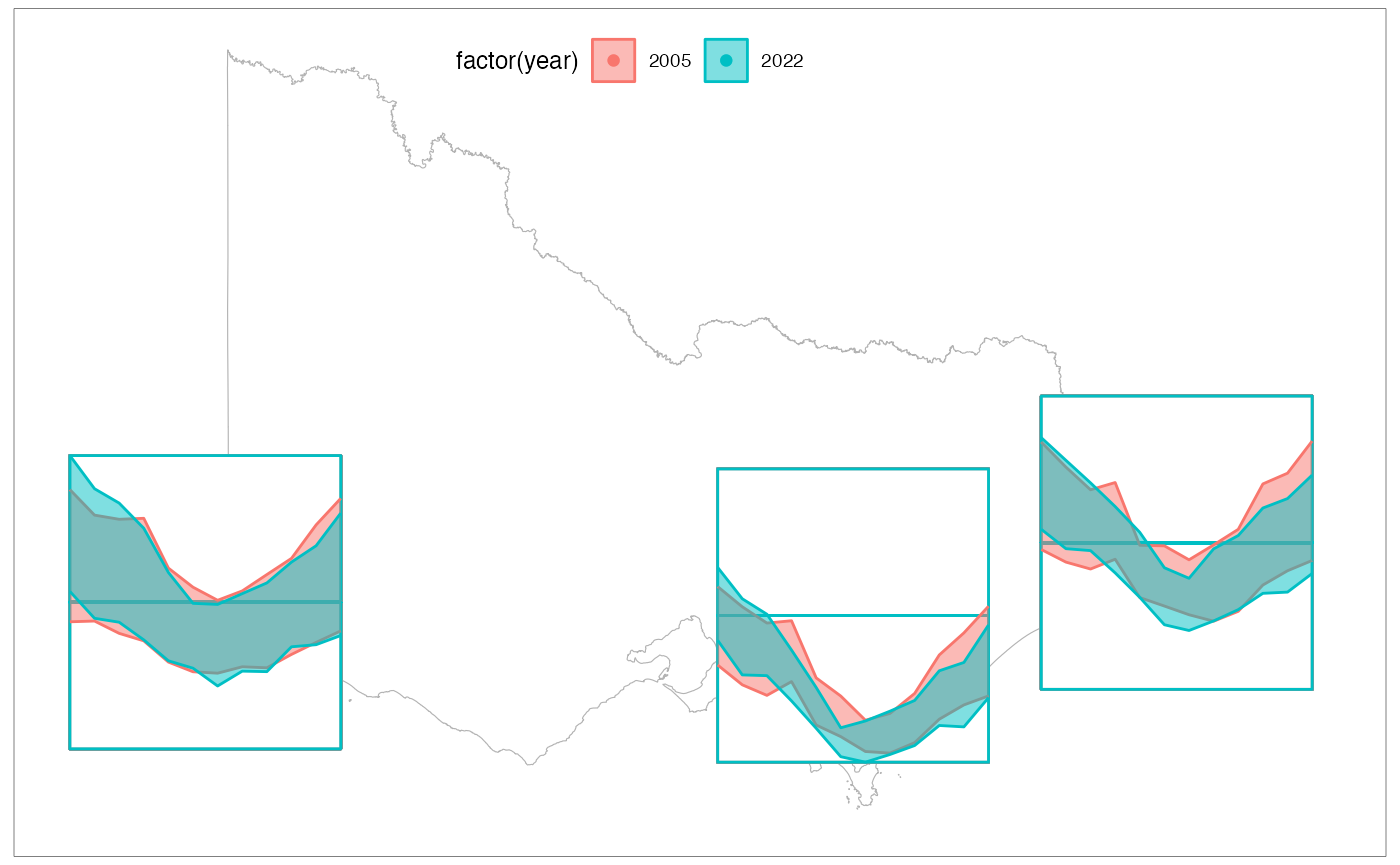
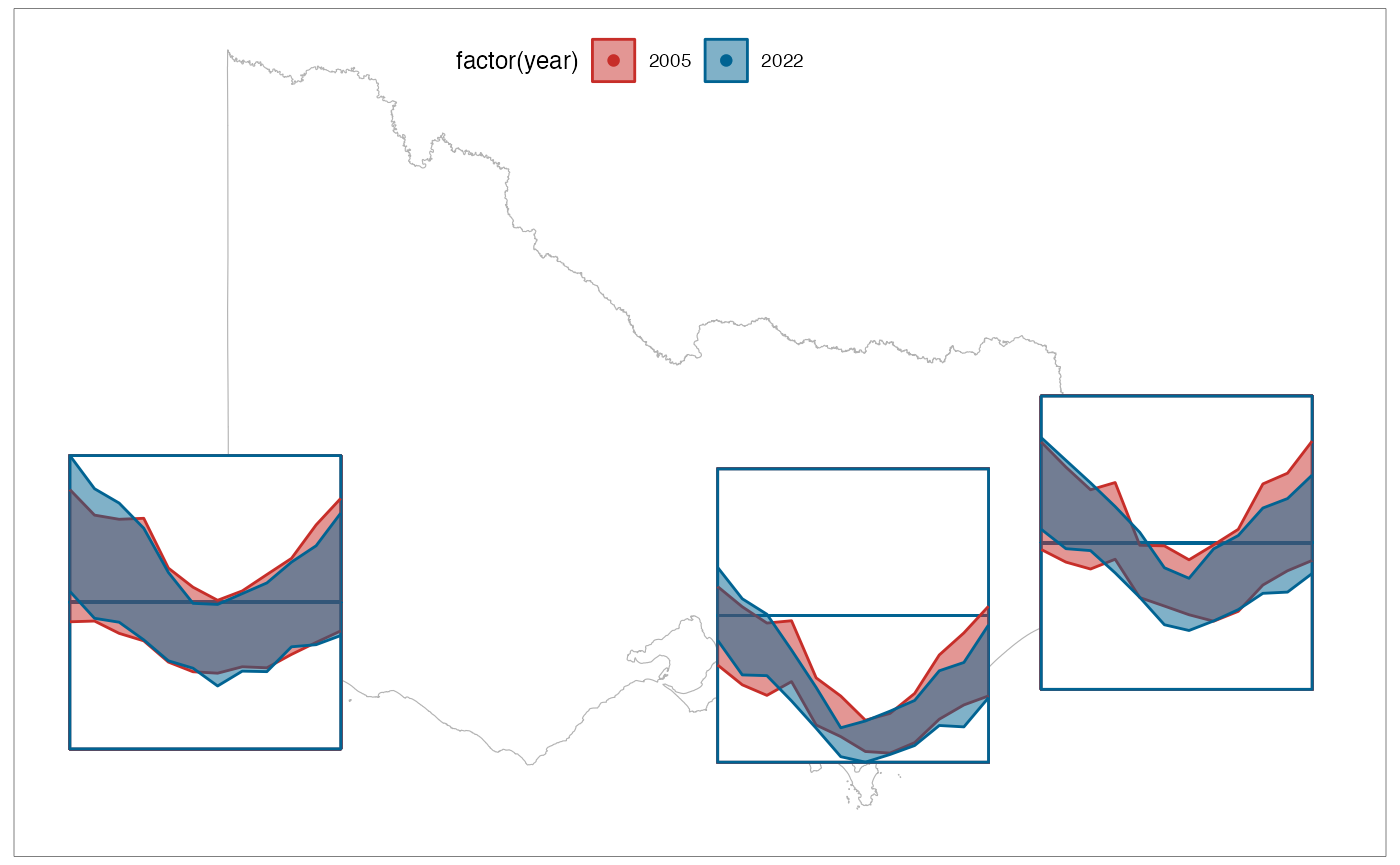
Update examples' theme

diff --git a/docs/articles/Examples.html b/docs/articles/Examples.html
@@ -200,8 +200,6 @@ unique options.</p>
 <p>(……)</p>
 <div class="sourceCode" id="cb2"><pre class="downlit sourceCode r">
 <code class="sourceCode R"><span></span>
-<span><span class="va">aus_map</span> <span class="op">&lt;-</span> <span class="fu"><a href="https://ggplot2.tidyverse.org/reference/map_data.html" class="external-link">map_data</a></span><span class="op">(</span><span class="st">"world"</span>, region <span class="op">=</span> <span class="st">"Australia"</span><span class="op">)</span></span>
-<span></span>
 <span><span class="va">p1</span> <span class="op">&lt;-</span> <span class="va">aus_temp</span> <span class="op">|&gt;</span></span>
 <span>   <span class="fu"><a href="https://ggplot2.tidyverse.org/reference/ggplot.html" class="external-link">ggplot</a></span><span class="op">(</span><span class="fu"><a href="https://ggplot2.tidyverse.org/reference/aes.html" class="external-link">aes</a></span><span class="op">(</span>x_major <span class="op">=</span> <span class="va">long</span>, y_major <span class="op">=</span> <span class="va">lat</span>,</span>
 <span>              x_minor <span class="op">=</span> <span class="va">month</span>, ymin_minor <span class="op">=</span> <span class="va">tmin</span>, ymax_minor <span class="op">=</span> <span class="va">tmax</span><span class="op">)</span><span class="op">)</span> <span class="op">+</span></span>
@@ -213,7 +211,9 @@ unique options.</p>
 <span>  <span class="fu">theme_map</span><span class="op">(</span><span class="op">)</span> <span class="op">+</span></span>
 <span>  <span class="fu"><a href="https://ggplot2.tidyverse.org/reference/ggsf.html" class="external-link">coord_sf</a></span><span class="op">(</span>xlim <span class="op">=</span> <span class="fu"><a href="https://rdrr.io/r/base/c.html" class="external-link">c</a></span><span class="op">(</span><span class="fl">110</span>,<span class="fl">155</span><span class="op">)</span><span class="op">)</span> <span class="op">+</span></span>
 <span>  <span class="fu"><a href="https://ggplot2.tidyverse.org/reference/labs.html" class="external-link">labs</a></span><span class="op">(</span>title <span class="op">=</span> <span class="st">"Local Rescale"</span><span class="op">)</span> <span class="op">+</span></span>
-<span>  <span class="fu"><a href="https://ggplot2.tidyverse.org/reference/theme.html" class="external-link">theme</a></span><span class="op">(</span>plot.title <span class="op">=</span> <span class="fu"><a href="https://ggplot2.tidyverse.org/reference/element.html" class="external-link">element_text</a></span><span class="op">(</span>hjust <span class="op">=</span> <span class="fl">0.5</span><span class="op">)</span><span class="op">)</span></span>
+<span>  <span class="fu"><a href="https://ggplot2.tidyverse.org/reference/theme.html" class="external-link">theme</a></span><span class="op">(</span>plot.title <span class="op">=</span> <span class="fu"><a href="https://ggplot2.tidyverse.org/reference/element.html" class="external-link">element_text</a></span><span class="op">(</span>hjust <span class="op">=</span> <span class="fl">0.5</span><span class="op">)</span>,</span>
+<span>        panel.background <span class="op">=</span> <span class="fu"><a href="https://ggplot2.tidyverse.org/reference/element.html" class="external-link">element_rect</a></span><span class="op">(</span>fill <span class="op">=</span> <span class="st">"white"</span>, color <span class="op">=</span> <span class="cn">NA</span><span class="op">)</span>,</span>
+<span>        plot.background <span class="op">=</span> <span class="fu"><a href="https://ggplot2.tidyverse.org/reference/element.html" class="external-link">element_rect</a></span><span class="op">(</span>fill <span class="op">=</span> <span class="st">"white"</span>, color <span class="op">=</span> <span class="cn">NA</span><span class="op">)</span><span class="op">)</span></span>
 <span></span>
 <span><span class="va">p2</span> <span class="op">&lt;-</span> <span class="va">aus_temp</span> <span class="op">|&gt;</span></span>
 <span>   <span class="fu"><a href="https://ggplot2.tidyverse.org/reference/ggplot.html" class="external-link">ggplot</a></span><span class="op">(</span><span class="fu"><a href="https://ggplot2.tidyverse.org/reference/aes.html" class="external-link">aes</a></span><span class="op">(</span>x_major <span class="op">=</span> <span class="va">long</span>, y_major <span class="op">=</span> <span class="va">lat</span>,</span>
@@ -226,7 +226,9 @@ unique options.</p>
 <span>  <span class="fu">theme_map</span><span class="op">(</span><span class="op">)</span> <span class="op">+</span></span>
 <span>  <span class="fu"><a href="https://ggplot2.tidyverse.org/reference/ggsf.html" class="external-link">coord_sf</a></span><span class="op">(</span>xlim <span class="op">=</span> <span class="fu"><a href="https://rdrr.io/r/base/c.html" class="external-link">c</a></span><span class="op">(</span><span class="fl">110</span>,<span class="fl">155</span><span class="op">)</span><span class="op">)</span> <span class="op">+</span></span>
 <span>  <span class="fu"><a href="https://ggplot2.tidyverse.org/reference/labs.html" class="external-link">labs</a></span><span class="op">(</span>title <span class="op">=</span> <span class="st">"Global Rescale"</span><span class="op">)</span> <span class="op">+</span></span>
-<span>  <span class="fu"><a href="https://ggplot2.tidyverse.org/reference/theme.html" class="external-link">theme</a></span><span class="op">(</span>plot.title <span class="op">=</span> <span class="fu"><a href="https://ggplot2.tidyverse.org/reference/element.html" class="external-link">element_text</a></span><span class="op">(</span>hjust <span class="op">=</span> <span class="fl">0.5</span><span class="op">)</span><span class="op">)</span></span>
+<span>  <span class="fu"><a href="https://ggplot2.tidyverse.org/reference/theme.html" class="external-link">theme</a></span><span class="op">(</span>plot.title <span class="op">=</span> <span class="fu"><a href="https://ggplot2.tidyverse.org/reference/element.html" class="external-link">element_text</a></span><span class="op">(</span>hjust <span class="op">=</span> <span class="fl">0.5</span><span class="op">)</span>,</span>
+<span>        panel.background <span class="op">=</span> <span class="fu"><a href="https://ggplot2.tidyverse.org/reference/element.html" class="external-link">element_rect</a></span><span class="op">(</span>fill <span class="op">=</span> <span class="st">"white"</span>, color <span class="op">=</span> <span class="cn">NA</span><span class="op">)</span>,</span>
+<span>        plot.background <span class="op">=</span> <span class="fu"><a href="https://ggplot2.tidyverse.org/reference/element.html" class="external-link">element_rect</a></span><span class="op">(</span>fill <span class="op">=</span> <span class="st">"white"</span>, color <span class="op">=</span> <span class="cn">NA</span><span class="op">)</span><span class="op">)</span></span>
 <span></span>
 <span><span class="co"># Using gridExtra and grid packages to add neatline to the plot</span></span>
 <span><span class="fu">grid.arrange</span><span class="op">(</span><span class="va">p1</span>, <span class="va">p2</span>, ncol <span class="op">=</span> <span class="fl">2</span><span class="op">)</span> </span>
@@ -261,7 +263,9 @@ unique options.</p>
 <span>   <span class="fu"><a href="https://ggplot2.tidyverse.org/reference/ggsf.html" class="external-link">coord_sf</a></span><span class="op">(</span>xlim <span class="op">=</span> <span class="fu"><a href="https://rdrr.io/r/base/c.html" class="external-link">c</a></span><span class="op">(</span><span class="fl">112</span>,<span class="fl">155</span><span class="op">)</span><span class="op">)</span> <span class="op">+</span></span>
 <span>  <span class="fu">theme_map</span><span class="op">(</span><span class="op">)</span> <span class="op">+</span></span>
 <span>  <span class="fu"><a href="https://ggplot2.tidyverse.org/reference/theme.html" class="external-link">theme</a></span><span class="op">(</span>legend.position.inside <span class="op">=</span> <span class="fu"><a href="https://rdrr.io/r/base/c.html" class="external-link">c</a></span><span class="op">(</span><span class="fl">.3</span>,<span class="fl">0</span><span class="op">)</span>, </span>
-<span>        legend.direction <span class="op">=</span> <span class="st">"horizontal"</span><span class="op">)</span> <span class="op">+</span></span>
+<span>        legend.direction <span class="op">=</span> <span class="st">"horizontal"</span>,</span>
+<span>        panel.background <span class="op">=</span> <span class="fu"><a href="https://ggplot2.tidyverse.org/reference/element.html" class="external-link">element_rect</a></span><span class="op">(</span>fill <span class="op">=</span> <span class="st">"white"</span>, color <span class="op">=</span> <span class="cn">NA</span><span class="op">)</span>,</span>
+<span>        plot.background <span class="op">=</span> <span class="fu"><a href="https://ggplot2.tidyverse.org/reference/element.html" class="external-link">element_rect</a></span><span class="op">(</span>fill <span class="op">=</span> <span class="st">"white"</span>, color <span class="op">=</span> <span class="cn">NA</span><span class="op">)</span><span class="op">)</span> <span class="op">+</span></span>
 <span>  <span class="fu"><a href="https://ggplot2.tidyverse.org/reference/scale_gradient.html" class="external-link">scale_fill_gradientn</a></span><span class="op">(</span>colors <span class="op">=</span> <span class="fu"><a href="https://rdrr.io/r/base/c.html" class="external-link">c</a></span><span class="op">(</span><span class="st">"#ADD8E6"</span>, <span class="st">"#2b5e82"</span>, <span class="st">"dodgerblue4"</span><span class="op">)</span><span class="op">)</span> <span class="op">+</span></span>
 <span>  <span class="fu"><a href="https://ggplot2.tidyverse.org/reference/scale_gradient.html" class="external-link">scale_color_gradientn</a></span><span class="op">(</span>colors <span class="op">=</span> <span class="fu"><a href="https://rdrr.io/r/base/c.html" class="external-link">c</a></span><span class="op">(</span> <span class="st">"#ADD8E6"</span>, <span class="st">"#2b5e82"</span>, <span class="st">"dodgerblue4"</span><span class="op">)</span><span class="op">)</span> </span>
 <span>  </span>
@@ -300,7 +304,11 @@ unique options.</p>
 <span>  <span class="fu"><a href="https://ggplot2.tidyverse.org/reference/labs.html" class="external-link">labs</a></span><span class="op">(</span>x <span class="op">=</span> <span class="st">"Longitude"</span>, y <span class="op">=</span> <span class="st">"Latitude"</span><span class="op">)</span> <span class="op">+</span></span>
 <span>  <span class="fu">theme_map</span><span class="op">(</span><span class="op">)</span> <span class="op">+</span></span>
 <span>  <span class="fu"><a href="https://ggplot2.tidyverse.org/reference/theme.html" class="external-link">theme</a></span><span class="op">(</span>legend.position.inside <span class="op">=</span> <span class="fu"><a href="https://rdrr.io/r/base/c.html" class="external-link">c</a></span><span class="op">(</span><span class="fl">.3</span>,<span class="fl">0.9</span><span class="op">)</span>, </span>
-<span>        legend.direction <span class="op">=</span> <span class="st">"horizontal"</span><span class="op">)</span> </span>
+<span>        legend.direction <span class="op">=</span> <span class="st">"horizontal"</span>,</span>
+<span>        panel.background <span class="op">=</span> <span class="fu"><a href="https://ggplot2.tidyverse.org/reference/element.html" class="external-link">element_rect</a></span><span class="op">(</span>fill <span class="op">=</span> <span class="st">"white"</span>, color <span class="op">=</span> <span class="cn">NA</span><span class="op">)</span>,</span>
+<span>        plot.background <span class="op">=</span> <span class="fu"><a href="https://ggplot2.tidyverse.org/reference/element.html" class="external-link">element_rect</a></span><span class="op">(</span>fill <span class="op">=</span> <span class="st">"white"</span>, color <span class="op">=</span> <span class="cn">NA</span><span class="op">)</span><span class="op">)</span> <span class="op">+</span></span>
+<span>  <span class="fu">scale_colour_wsj</span><span class="op">(</span><span class="st">"colors6"</span><span class="op">)</span> <span class="op">+</span></span>
+<span>  <span class="fu">scale_fill_wsj</span><span class="op">(</span><span class="st">"colors6"</span><span class="op">)</span></span>
 <span></span>
 <span></span>
 <span><span class="co"># Using gridExtra and grid packages to add neat line to the plot</span></span>
@@ -331,7 +339,7 @@ unique options.</p>
 <span>  <span class="fu"><a href="../reference/add_ref_lines.html">add_ref_lines</a></span><span class="op">(</span><span class="op">)</span> <span class="op">+</span></span>
 <span>  <span class="fu"><a href="../reference/geom_glyph_ribbon.html">geom_glyph_ribbon</a></span><span class="op">(</span><span class="op">)</span> <span class="op">+</span> </span>
 <span>  <span class="fu"><a href="../reference/add_ribbon_legend.html">add_ribbon_legend</a></span><span class="op">(</span><span class="op">)</span> <span class="op">+</span> </span>
-<span>  <span class="fu">theme_map</span><span class="op">(</span><span class="op">)</span></span>
+<span>  <span class="fu">theme_map</span><span class="op">(</span><span class="op">)</span> </span>
 <span></span>
 <span><span class="co"># Using gridExtra and grid packages to add neat line to the plot</span></span>
 <span><span class="fu">grid.arrange</span><span class="op">(</span><span class="va">legend</span>, ncol <span class="op">=</span> <span class="fl">1</span><span class="op">)</span> </span>
